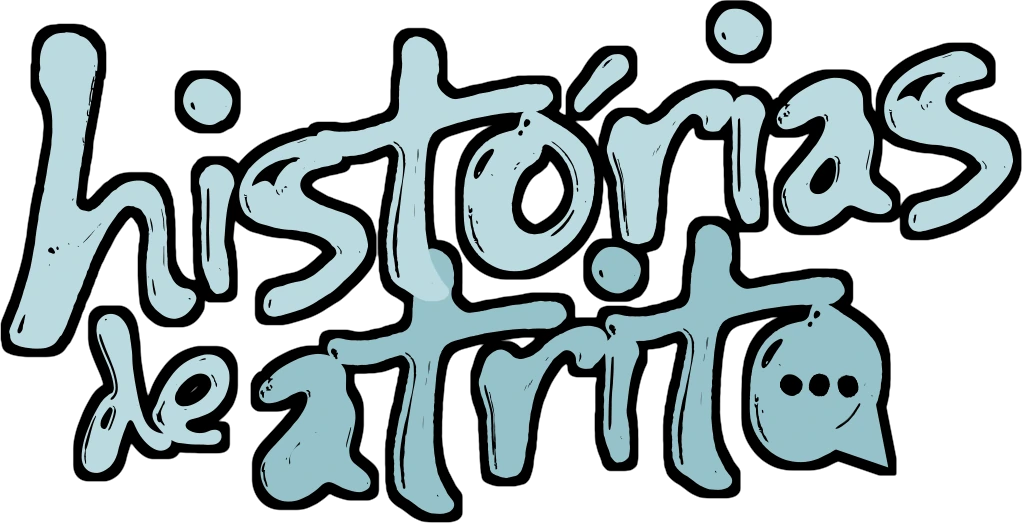
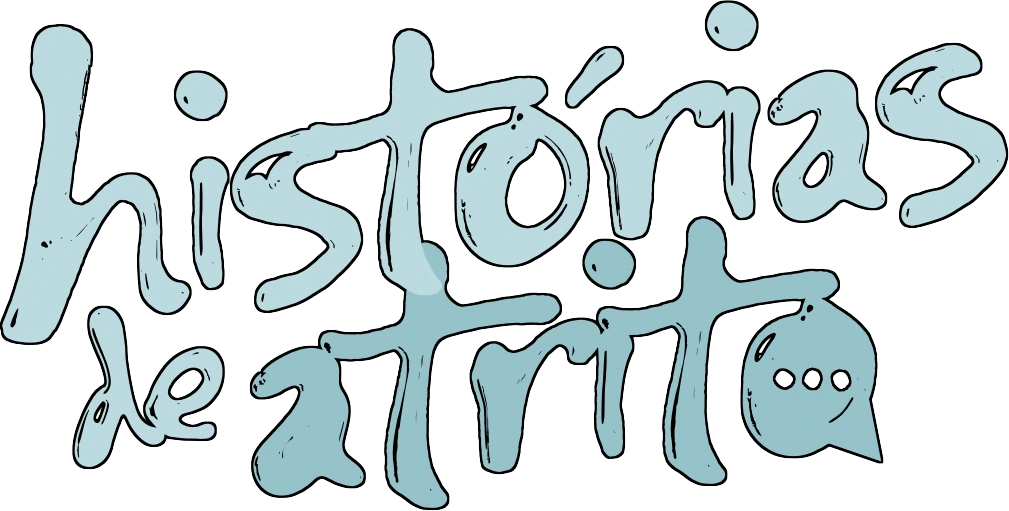
Contorno da hero vira um fio

Changed region(s): [[0.0, 0.0, 1.0, 1.0], [0.1536, 0.1174, 0.2458, 0.2642]]

diff --git a/index.html b/index.html
@@ -86,7 +86,7 @@ try{if(localStorage.getItem('casos-de-atrito:idade')==='ok')document.documentEle
       <div class="wrap">
         <h1 class="r">
           <img class="hero__art" src="assets/historias-de-atrito-traco.webp"
-               width="1022" height="523" alt="Histórias de atrito"
+               width="1009" height="511" alt="Histórias de atrito"
                fetchpriority="high" decoding="async">
         </h1>
         <div class="scroll r" aria-hidden="true">

diff --git a/assets/traco-hero.py b/assets/traco-hero.py
@@ -25,8 +25,11 @@ base.paste(im, (pad, pad))
 m = base.getchannel('A')
 for _ in range(r):
     m = m.filter(ImageFilter.MaxFilter(3))
-# tira o degrau do quadrado do filtro e devolve o antialias
-m = m.filter(ImageFilter.GaussianBlur(1.1))
+# Tira o degrau do quadrado do MaxFilter e devolve o antialias. O
+# alisamento acompanha o raio: fixo em 1.1 ele comeria boa parte de um
+# traco de 2px, que e da mesma ordem de grandeza.
+suave = max(0.45, min(1.1, r * 0.36))
+m = m.filter(ImageFilter.GaussianBlur(suave))
 m = m.point(lambda v: 0 if v < 40 else 255 if v > 150 else int((v - 40) / 110 * 255))
 
 traco = Image.new('RGBA', base.size, (0, 0, 0, 255))
